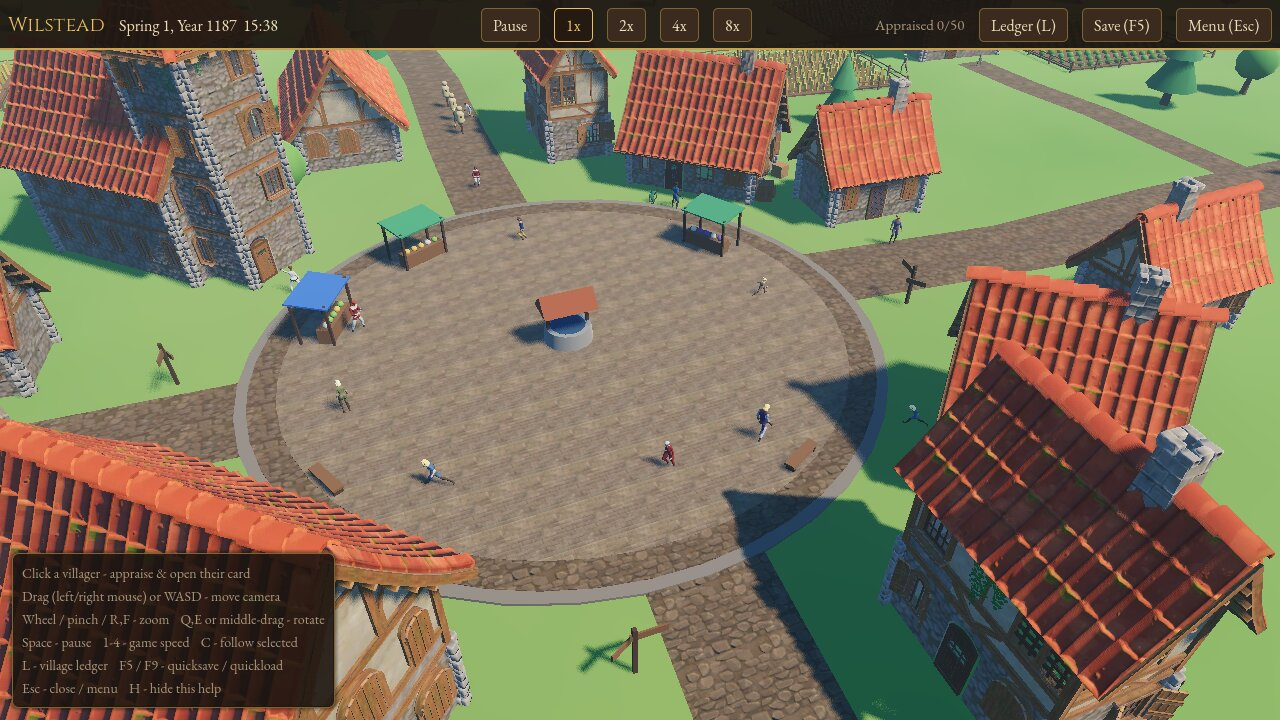
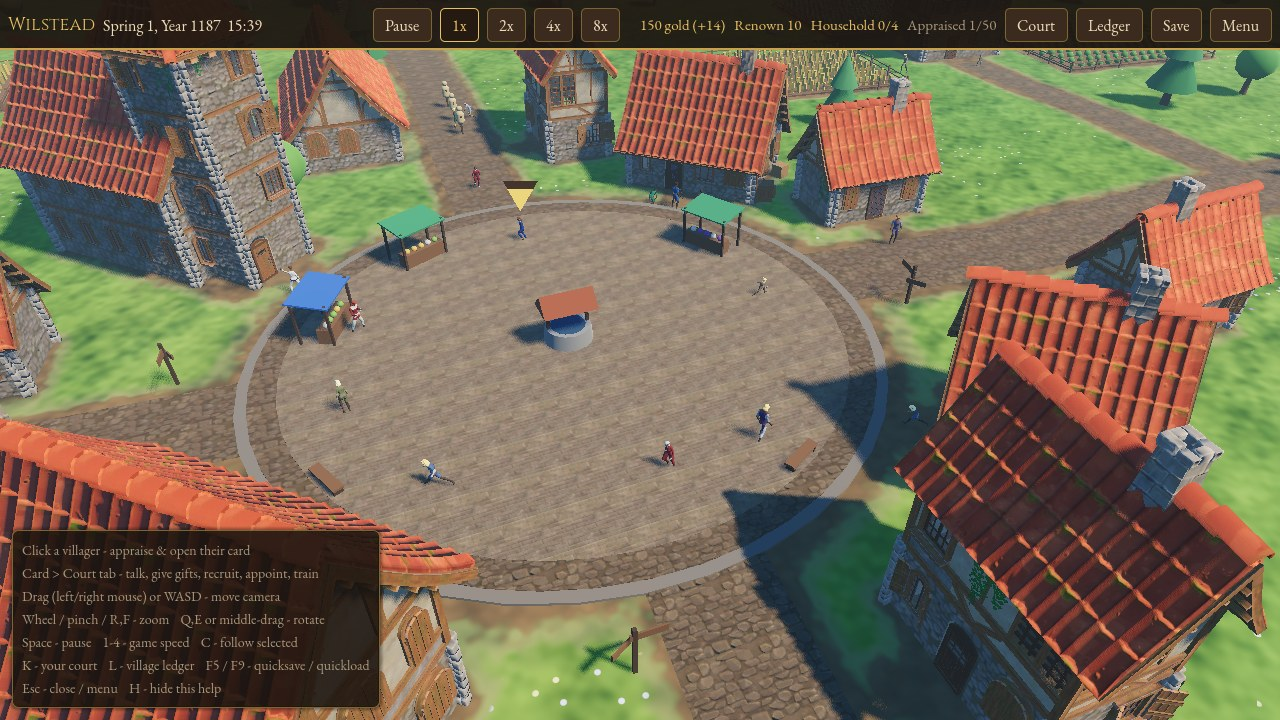
Meadow ground: textured grass shader with worn paths
Replaces the flat vertex-colored terrain with a world-space meadow shader
(sunlit/lush patches, light-catching clumps, grain, bare earth, flower
drifts) and a baked wear mask so grass wears down along roads, around the
square, at doorsteps and field edges. Tunables live in art_style.json.
Adds an 'art' capture mode, a wear-mask test and before/after shots.

Claude-Session: https://claude.ai/code/session_019bSG9YKVidabHNo6hytDFB

diff --git a/docs/ART_PLAN.md b/docs/ART_PLAN.md
@@ -63,6 +63,19 @@ There are 11 types with 1–3 variants each. Footprints in `data/buildings.json`
 
 **Fallback.** If the files are missing, the old primitive bodies are used.
 
+### Ground: meadow shader (no assets needed)
+- `shaders/terrain_meadow.gdshader` turns the flat green terrain into a meadow. It adds:
+  - sunlit and lush patches
+  - grass clumps that catch the light
+  - fine grain
+  - occasional bare earth
+  - drifts of wild flowers
+- `scripts/world/ground_wear.gd` bakes a 512 px mask from the layout. The grass wears down along roads, around the square, at doorsteps and along field fences.
+- All numbers are in `data/art_style.json` → `terrain`.
+- Before/after: `docs/screenshots/ground_before_after.jpg`.
+- Works on the Forward+, Mobile and Compatibility renderers.
+- Real 3D grass tufts, flowers and rocks still come from the Nature MegaKit (section 3).
+
 ### Import settings (committed `.import` files)
 - Village and body textures: VRAM compressed with mipmaps, capped at **1024 px**; eyes 256, vines 512. That's plenty for a strategy camera and keeps downloads around 50 MB.
 - Hair GLBs discard their duplicated embedded textures. All hair shares the two hair texture sheets extracted from the bodies.
